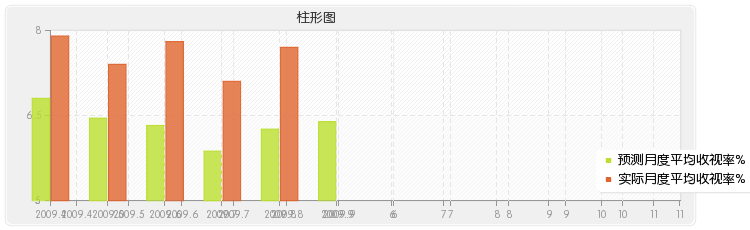
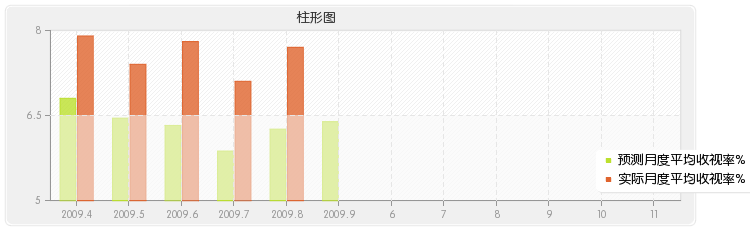
robbin

diff --git a/dept/jspd/photolist.php b/dept/jspd/photolist.php
@@ -94,30 +94,30 @@ include('inc/topbar.inc.php');
                   </tr>
                   <? for($i=0;$i<$count;$i++)
                   {?>
-                  <tr> 
+                  <tr valign="middle"> 
                     <td height="30"><img src="<? echo $records[$i]->photo_src;?>" width="80" height="80"></td>
-                    <td ><div style="width:390px; height:85px; font-weight:12px; overflow:hidden;"><a target="blank" href="news.php?id=<? echo $records[$i]->id;?>"><? echo $records[$i]->title; echo $records[$i]->description;?></a></div></td>
-                    <td align="center"><? echo $records[$i]->click_count;?></td>
-                    <td align="center"><? echo $records[$i]->created_at;?></td>
+                    <td align="left"><div style="width:390px; height:85px; font-weight:12px; overflow:hidden;"><a target="blank" href="news.php?id=<? echo $records[$i]->id;?>"><? echo $records[$i]->title; echo $records[$i]->description;?></a></div></td>
+                    <td align="left"><? echo $records[$i]->click_count;?></td>
+                    <td align="left"><? echo $records[$i]->created_at;?></td>
                   </tr>              
                   <tr>
                     <td height="22">&nbsp;</td>
-                    <td align="center">&nbsp;</td>
-                    <td align="center">&nbsp;</td>
-                    <td align="center">&nbsp;</td>
+                    <td align="left">&nbsp;</td>
+                    <td align="left">&nbsp;</td>
+                    <td align="left">&nbsp;</td>
                   </tr>
                   <? }?>
                    <tr>
                     <td height="30">&nbsp;</td>
                     <td align="left">&nbsp;</td>
-                    <td align="center">&nbsp;</td>
-                    <td align="center"><a href="newslist.php?id=<?php echo dept_category_id_by_name('圈内资深','纪实频道','news');?>"><img src="images/more.jpg" width="86" height="33" border="0"></a></td>
+                    <td align="left">&nbsp;</td>
+                    <td align="left"><a href="newslist.php?id=<?php echo dept_category_id_by_name('圈内资深','纪实频道','news');?>"><img src="images/more.jpg" width="86" height="33" border="0"></a></td>
                   </tr>
                   <tr>
                   	<td height="30">&nbsp;</td>
-                    <td align="center">&nbsp;</td>
-                    <td align="center">&nbsp;</td>
-                    <td align="center">&nbsp;</td>
+                    <td align="left">&nbsp;</td>
+                    <td align="left">&nbsp;</td>
+                    <td align="left">&nbsp;</td>
                   </tr>
                   <!--小编手记开始-->
                    <?php
@@ -127,29 +127,29 @@ include('inc/topbar.inc.php');
                   <tr>
                     <td height="38" background="images/tt-bg.jpg"><span style="color:red; font-size:14px; font-weight:bold;">☆小编手记</span></td>
                     <td align="left" background="images/tt-bg.jpg">&nbsp;</td>
-                    <td align="center" background="images/tt-bg.jpg">&nbsp;</td>
-                    <td align="center" background="images/tt-bg.jpg">&nbsp;</td>
+                    <td align="left" background="images/tt-bg.jpg">&nbsp;</td>
+                    <td align="left" background="images/tt-bg.jpg">&nbsp;</td>
                   </tr>
                   <? for($i=0;$i<$count;$i++)
                   {?>
-                  <tr> 
+                  <tr valign="middle"> 
                     <td height="30"><img src="<? echo $records[$i]->photo_src;?>" width="80" height="80"></td>
-                    <td ><div style="width:390px; height:85px; font-weight:12px; overflow:hidden;"><a target="blank" href="news.php?id=<? echo $records[$i]->id;?>"><? echo $records[$i]->title; echo $records[$i]->description;?></a></div></td>
-                    <td align="center"><? echo $records[$i]->click_count;?></td>
-                    <td align="center"><? echo $records[$i]->created_at;?></td>
+                    <td align="left"><div style="width:390px; height:85px; font-weight:12px; overflow:hidden;"><a target="blank" href="news.php?id=<? echo $records[$i]->id;?>"><? echo $records[$i]->title; echo $records[$i]->description;?></a></div></td>
+                    <td align="left"><? echo $records[$i]->click_count;?></td>
+                    <td align="left"><? echo $records[$i]->created_at;?></td>
                   </tr>                
                   <? }?>
                    <tr>
                     <td height="30">&nbsp;</td>
                     <td align="left">&nbsp;</td>
-                    <td align="center">&nbsp;</td>
-                    <td align="center"><a href="newslist.php?id=<?php echo dept_category_id_by_name('小编手记','纪实频道','news');?>"><img src="images/more.jpg" width="86" height="33" border="0"></a></td>
+                    <td align="left">&nbsp;</td>
+                    <td align="left"><a href="newslist.php?id=<?php echo dept_category_id_by_name('小编手记','纪实频道','news');?>"><img src="images/more.jpg" width="86" height="33" border="0"></a></td>
                   </tr>
                   <tr>
                   	<td height="30">&nbsp;</td>
-                    <td align="center">&nbsp;</td>
-                    <td align="center">&nbsp;</td>
-                    <td align="center">&nbsp;</td>
+                    <td align="left">&nbsp;</td>
+                    <td align="left">&nbsp;</td>
+                    <td align="left">&nbsp;</td>
                   </tr>
                <!-- MY SHOW开始 -->
              	  <?php
@@ -159,23 +159,23 @@ include('inc/topbar.inc.php');
                   <tr>
                     <td height="38" background="images/tt-bg.jpg"><span style="color:red; font-size:14px; font-weight:bold;">☆My Show</span></td>
                     <td align="left" background="images/tt-bg.jpg">&nbsp;</td>
-                    <td align="center" background="images/tt-bg.jpg">&nbsp;</td>
-                    <td align="center" background="images/tt-bg.jpg">&nbsp;</td>
+                    <td align="left" background="images/tt-bg.jpg">&nbsp;</td>
+                    <td align="left" background="images/tt-bg.jpg">&nbsp;</td>
                   </tr>
                   <? for($i=0;$i<$count;$i++)
                   {?>
-                  <tr> 
+                  <tr valign="middle"> 
                     <td height="30"><img src="<? echo $records[$i]->photo_src;?>" width="80" height="80"></td>
-                    <td ><div style="width:390px; height:85px; font-weight:12px; overflow:hidden;"><a target="blank" href="news.php?id=<? echo $records[$i]->id;?>"><? echo $records[$i]->title; echo $records[$i]->description;?></a></div></td>
-                    <td align="center"><? echo $records[$i]->click_count;?></td>
-                    <td align="center"><? echo $records[$i]->created_at;?></td>
+                    <td align="left"><div style="width:390px; height:85px; font-weight:12px; overflow:hidden;"><a target="blank" href="news.php?id=<? echo $records[$i]->id;?>"><? echo $records[$i]->title; echo $records[$i]->description;?></a></div></td>
+                    <td align="left"><? echo $records[$i]->click_count;?></td>
+                    <td align="left"><? echo $records[$i]->created_at;?></td>
                   </tr>              
                   <? }?>
                    <tr>
                     <td height="30">&nbsp;</td>
                     <td align="left">&nbsp;</td>
-                    <td align="center">&nbsp;</td>
-                    <td align="center"><a href="newslist.php?id=<?php echo dept_category_id_by_name('My Show','纪实频道','news');?>"><img src="images/more.jpg" width="86" height="33" border="0"></a></td>
+                    <td align="left">&nbsp;</td>
+                    <td align="left"><a href="newslist.php?id=<?php echo dept_category_id_by_name('My Show','纪实频道','news');?>"><img src="images/more.jpg" width="86" height="33" border="0"></a></td>
                   </tr>
             </table></td>
         </tr>

diff --git a/sslfx/index.php b/sslfx/index.php
@@ -74,18 +74,19 @@
 				?>
 				<select id="xq">
 					<option value="0">请选择</option>
-					<option value="<?php echo (String)$date[0]-(String)$date[4]; ?>">星期一~星期五</option>
+					<option value="<?php echo $date[0]; ?>-<?php echo $date[4];?>">星期一~星期五</option>
 					<option value="<?php echo $date[5]; ?>">星期六</option>
 					<option value="<?php echo $date[6]; ?>">星期日</option>
 				</select>
 				<input type="button" id="pdcx" value="查询">
-				<img id="foldline" width="970" src="/pChart/example9.jpg">
+				<input style="border:0px;" type="text" readonly="true">
+				<iframe id="imagefoldline"><img id="foldline" width="970" src="/pChart/example9.jpg"></iframe>
 			</div>
 			<?php $sql="select r.*,i.name from smg_ratings r left join smg_report_item i on r.item_id=i.id where is_dept=1 and i.is_show=1 order by i.id desc";
 				$prom=$db->query($sql);
 			?>
 			<div class=b_title>预测节目收视率跟踪</div>
-			<div class=b_content><img width="970" id="foldincom" src="/pChart/example12.jpg"></div>
+			<div class=b_content><iframe id="imagefoldincom"><img width="970" id="foldincom" src="/pChart/example12.jpg"></div>
 			<div style="width:993px; border:1px solid #DC7638; border-top:none; float:left; display:inline;">
 				<?php for($i=0;$i<count($prom);$i++){ ?>
 					<div param="<?php echo $prom[0]->id; ?>" class=b_pro1 <?php if($i==0){?>style="width:197px; color:#000000; background:#FF9900;"<?php } ?>><?php echo $prom[$i]->name; ?></div>
@@ -107,18 +108,15 @@
 			}
 			else if($("#xq").val()==0)
 			{
-				alert($("#xq").val());
 				alert('请选择一个日期');
 				return false;
 			}
 			else
-			{
-				alert($("#xq").val());
 					$.post("/pChart/Example9.php",{'id':$("#pd").val(),'date':$("#xq").val()},function(data){
 						alert(data);
 						if(data=='OK')
 						{
-							location.reload();
+							$("#imagefoldline").reload();
 						}
 					});
 			}
@@ -131,7 +129,10 @@
 			$(this).css("background","#FF9900");
 			$(this).css("color","#000000");
 			$.post("/pChart/Example9.php",{'id':$(this).attr('param')},function(data){
-					$("#foldincom").attr("src",data);
+				if(data=="OK")
+				{
+					$("#imagefoldincom").reload();
+				}
 			});
 		})
 	})

diff --git a/dept/jspd/newslist.php b/dept/jspd/newslist.php
@@ -89,15 +89,15 @@ body {
                   </tr>
                   <?php
 				  	$db = get_db();
-					$strsql='SELECT * FROM smg_news s where is_dept_adopt=1 and dept_category_id='.$dept_cate_id;
+					$strsql='SELECT * FROM smg_news s where is_dept_adopt=1 and dept_category_id='.$dept_cate_id." order by priority asc,created_at desc";
 					$record=$db->paginate($strsql,30);
 					$count  = count($record);
 				  	for($i=0;$i<$count;$i++){
 				  ?>
                   <tr>
-                    <td height="30"><a href="news.php?id=<?php echo $record[$i]->id;?>" title="<?php echo $record[$i]->title;?>">・<?php echo $record[$i]->short_title;?></a></td>  
-                    <td align="center"><? echo $record[$i]->click_count;?></td>
-                    <td align="center"><? echo $record[$i]->last_edited_at;?></td>
+                    <td align="left" height="30"><a href="news.php?id=<?php echo $record[$i]->id;?>" title="<?php echo $record[$i]->title;?>">・<?php echo $record[$i]->short_title;?></a></td>  
+                    <td align="left"><? echo $record[$i]->click_count;?></td>
+                    <td align="left"><? echo $record[$i]->last_edited_at;?></td>
                   </tr>
                   <? }?>
                 </table></td>

diff --git a/dept/jspd/videolist.php b/dept/jspd/videolist.php
@@ -96,9 +96,9 @@ body {
                   <? 
                   for($i=0;$i<$count;$i++){?>
                   <tr>
-                    <td height="30"><a href="video.php?id=<? echo $record[$i]->id;?>" title="<? echo $record[$i]->title;?>">・<? echo $record[$i]->title;?></a></td>  
-                    <td align="center"><? echo $record[$i]->click_count;?></td>
-                    <td align="center"><? echo $record[$i]->created_at;?></td>
+                    <td align="left" height="30"><a href="video.php?id=<? echo $record[$i]->id;?>" title="<? echo $record[$i]->title;?>">・<? echo $record[$i]->title;?></a></td>  
+                    <td align="left"><? echo $record[$i]->click_count;?></td>
+                    <td align="left"><? echo $record[$i]->created_at;?></td>
                   </tr>
                   <? }?>
                   

diff --git a/pChart/Example12.php b/pChart/Example12.php
@@ -9,7 +9,6 @@
 
  // Dataset definition 
  $DataSet = new pData;
- $DataSet1 = new pData;
  $DataSet->ImportFromCSV('Sample/foldincom.csv',",",array(1,2),false,0); 
  $DataSet->AddAllSeries();
  $DataSet->SetAbsciseLabelSerie(); 
@@ -33,8 +32,6 @@
 
  // Draw the bar graph
  $Test->drawBarGraph($DataSet->GetData(),$DataSet->GetDataDescription(),TRUE,80);
- $Test->drawLineGraph($DataSet1->GetData(),$DataSet1->GetDataDescription(),'Serie3');
- $Test->drawPlotGraph($DataSet1->GetData(),$DataSet1->GetDataDescription(),3,2,255,255,255);
  
  $Test->drawGrid(4,TRUE,230,230,230,50);
 

diff --git a/dept/jspd/index.php b/dept/jspd/index.php
@@ -263,7 +263,7 @@ include("inc/topbar.inc.php");
 					picflash.addVariable("borderheight",pic_height);
 					picflash.addVariable("borderw","false");
 					picflash.addVariable("buttondisplay","true");
-					picflash.addVariable("textheight","15");				
+					picflash.addVariable("textheight","0");				
 					picflash.addVariable("pic_width",pic_width);
 					picflash.addVariable("pic_height",pic_height);
 					picflash.write("focus_02");				

diff --git a/dept/jspd/video.php b/dept/jspd/video.php
@@ -33,7 +33,7 @@ body {
 <!-- ImageReady Slices (内网-ge.psd) -->
 <table width="100%" border="0" cellspacing="0" cellpadding="0">
   <tr>
-    <td height="204" align="left"><!-- #BeginLibraryItem "/Library/top.lbi" -->
+    <td height="204" align="center"><!-- #BeginLibraryItem "/Library/top.lbi" -->
 <style type="text/css">
 <!--
 @import url("../top.css");
